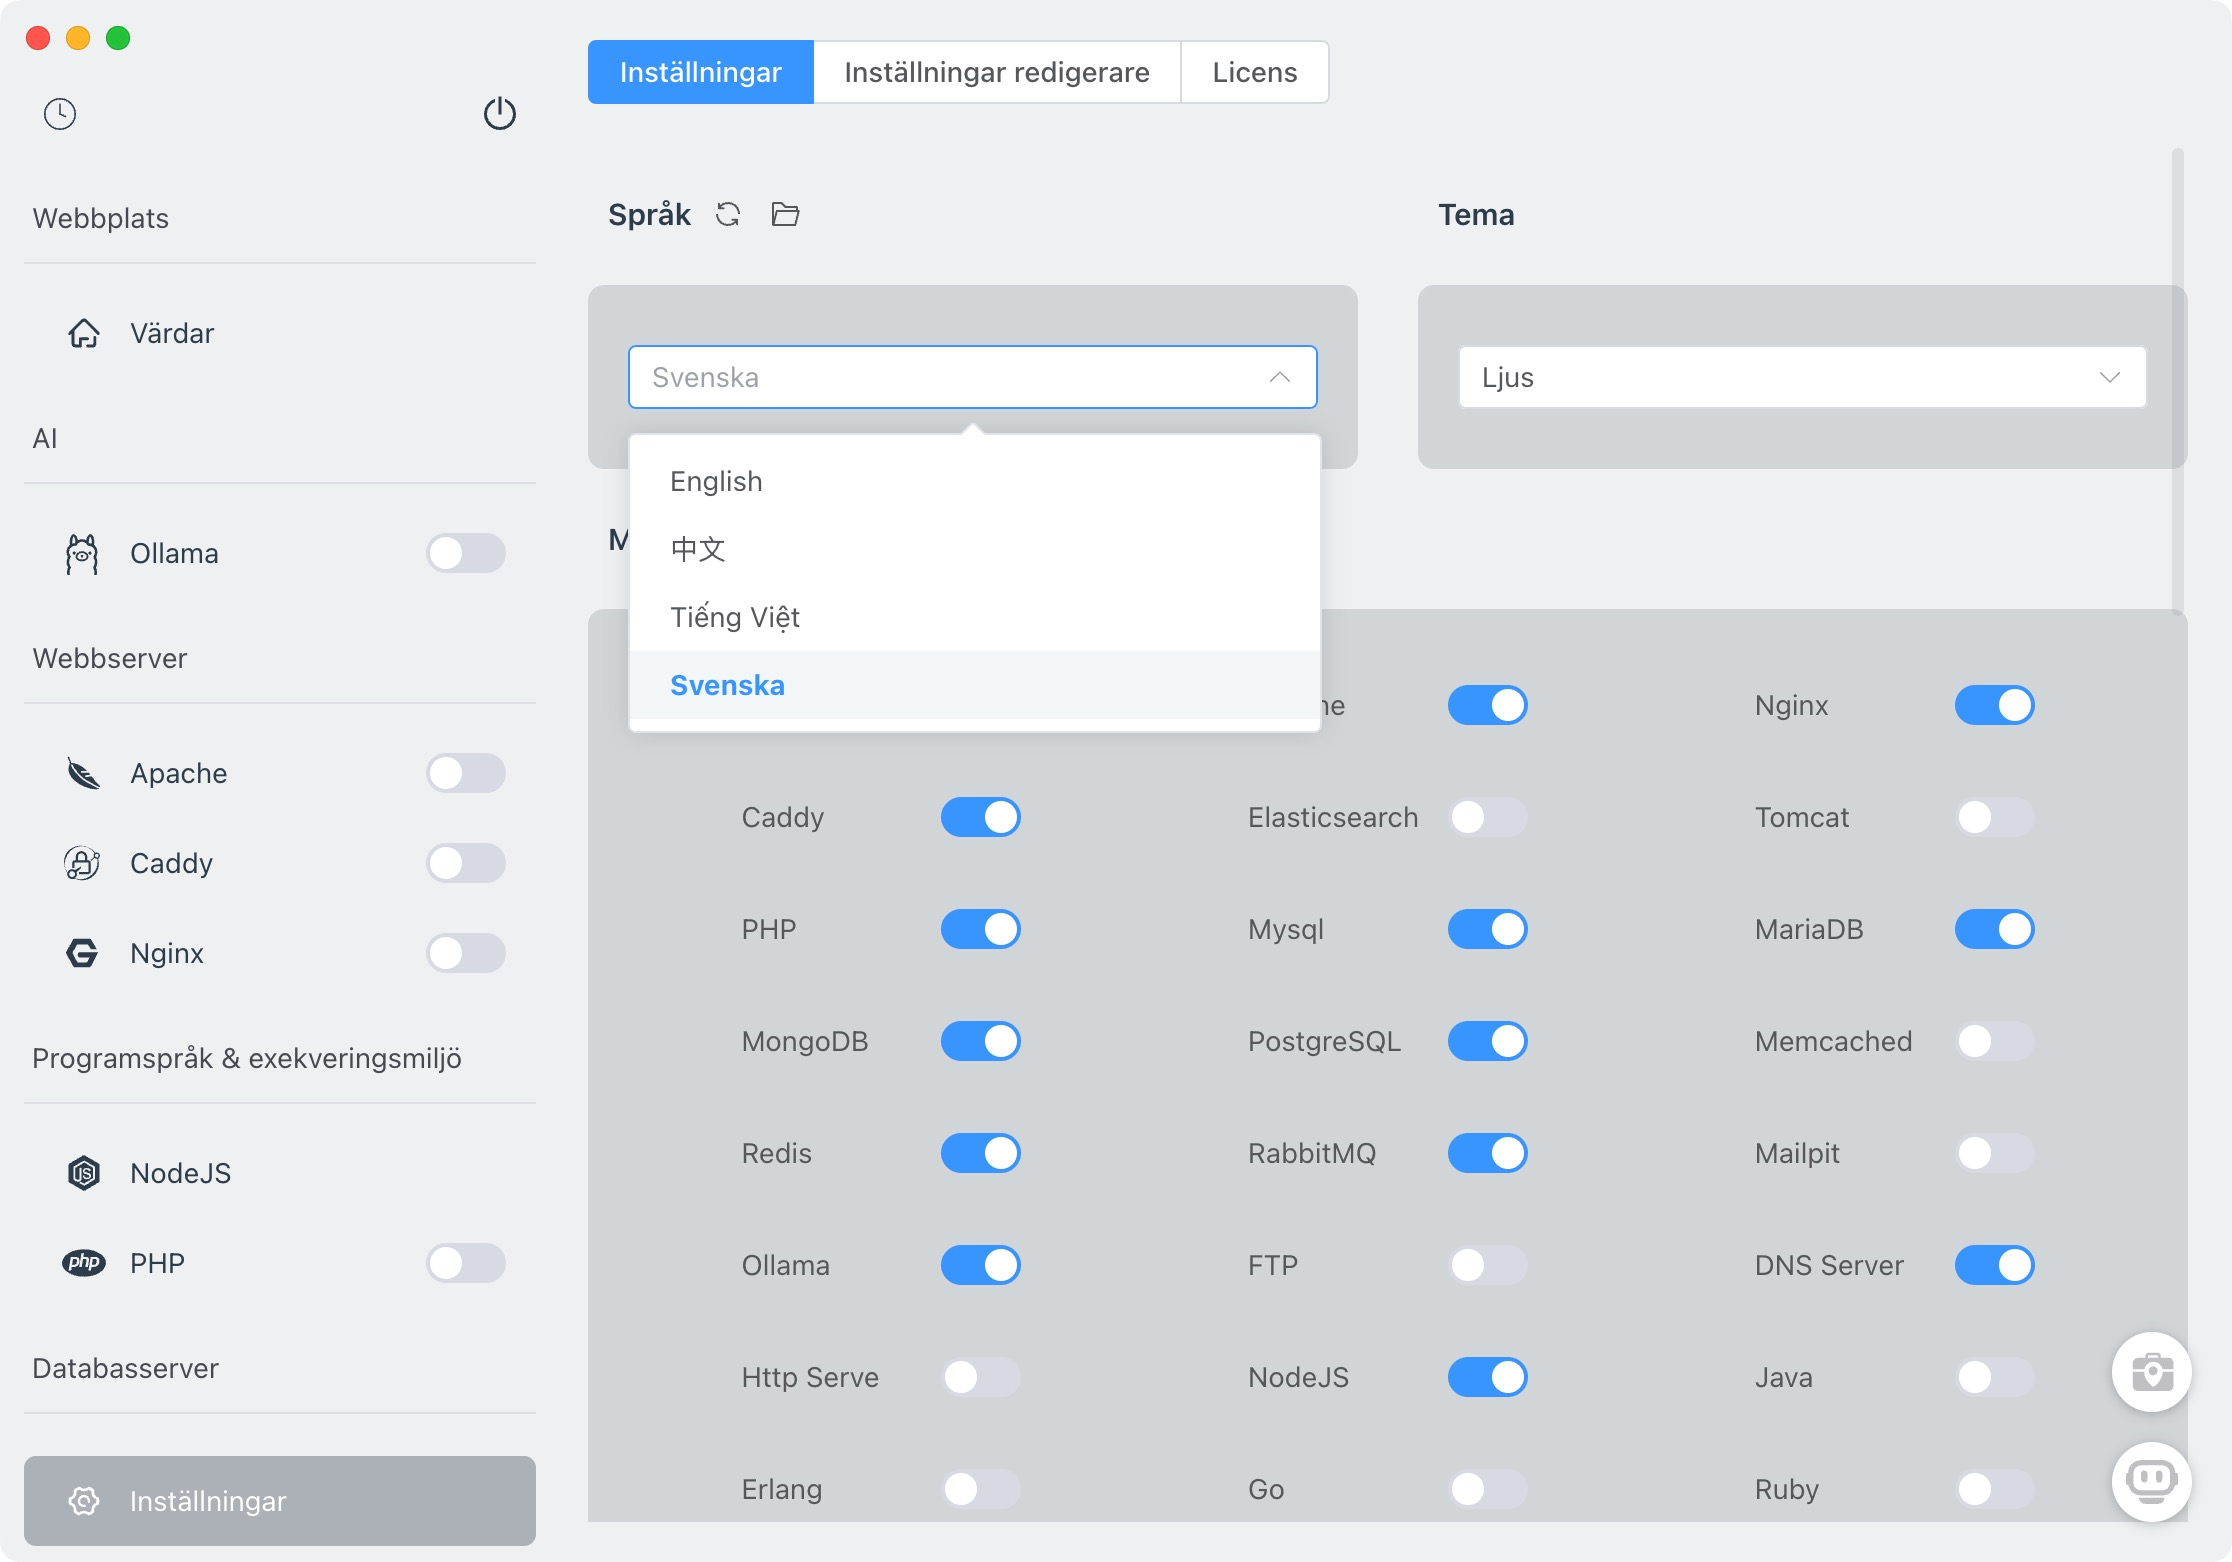
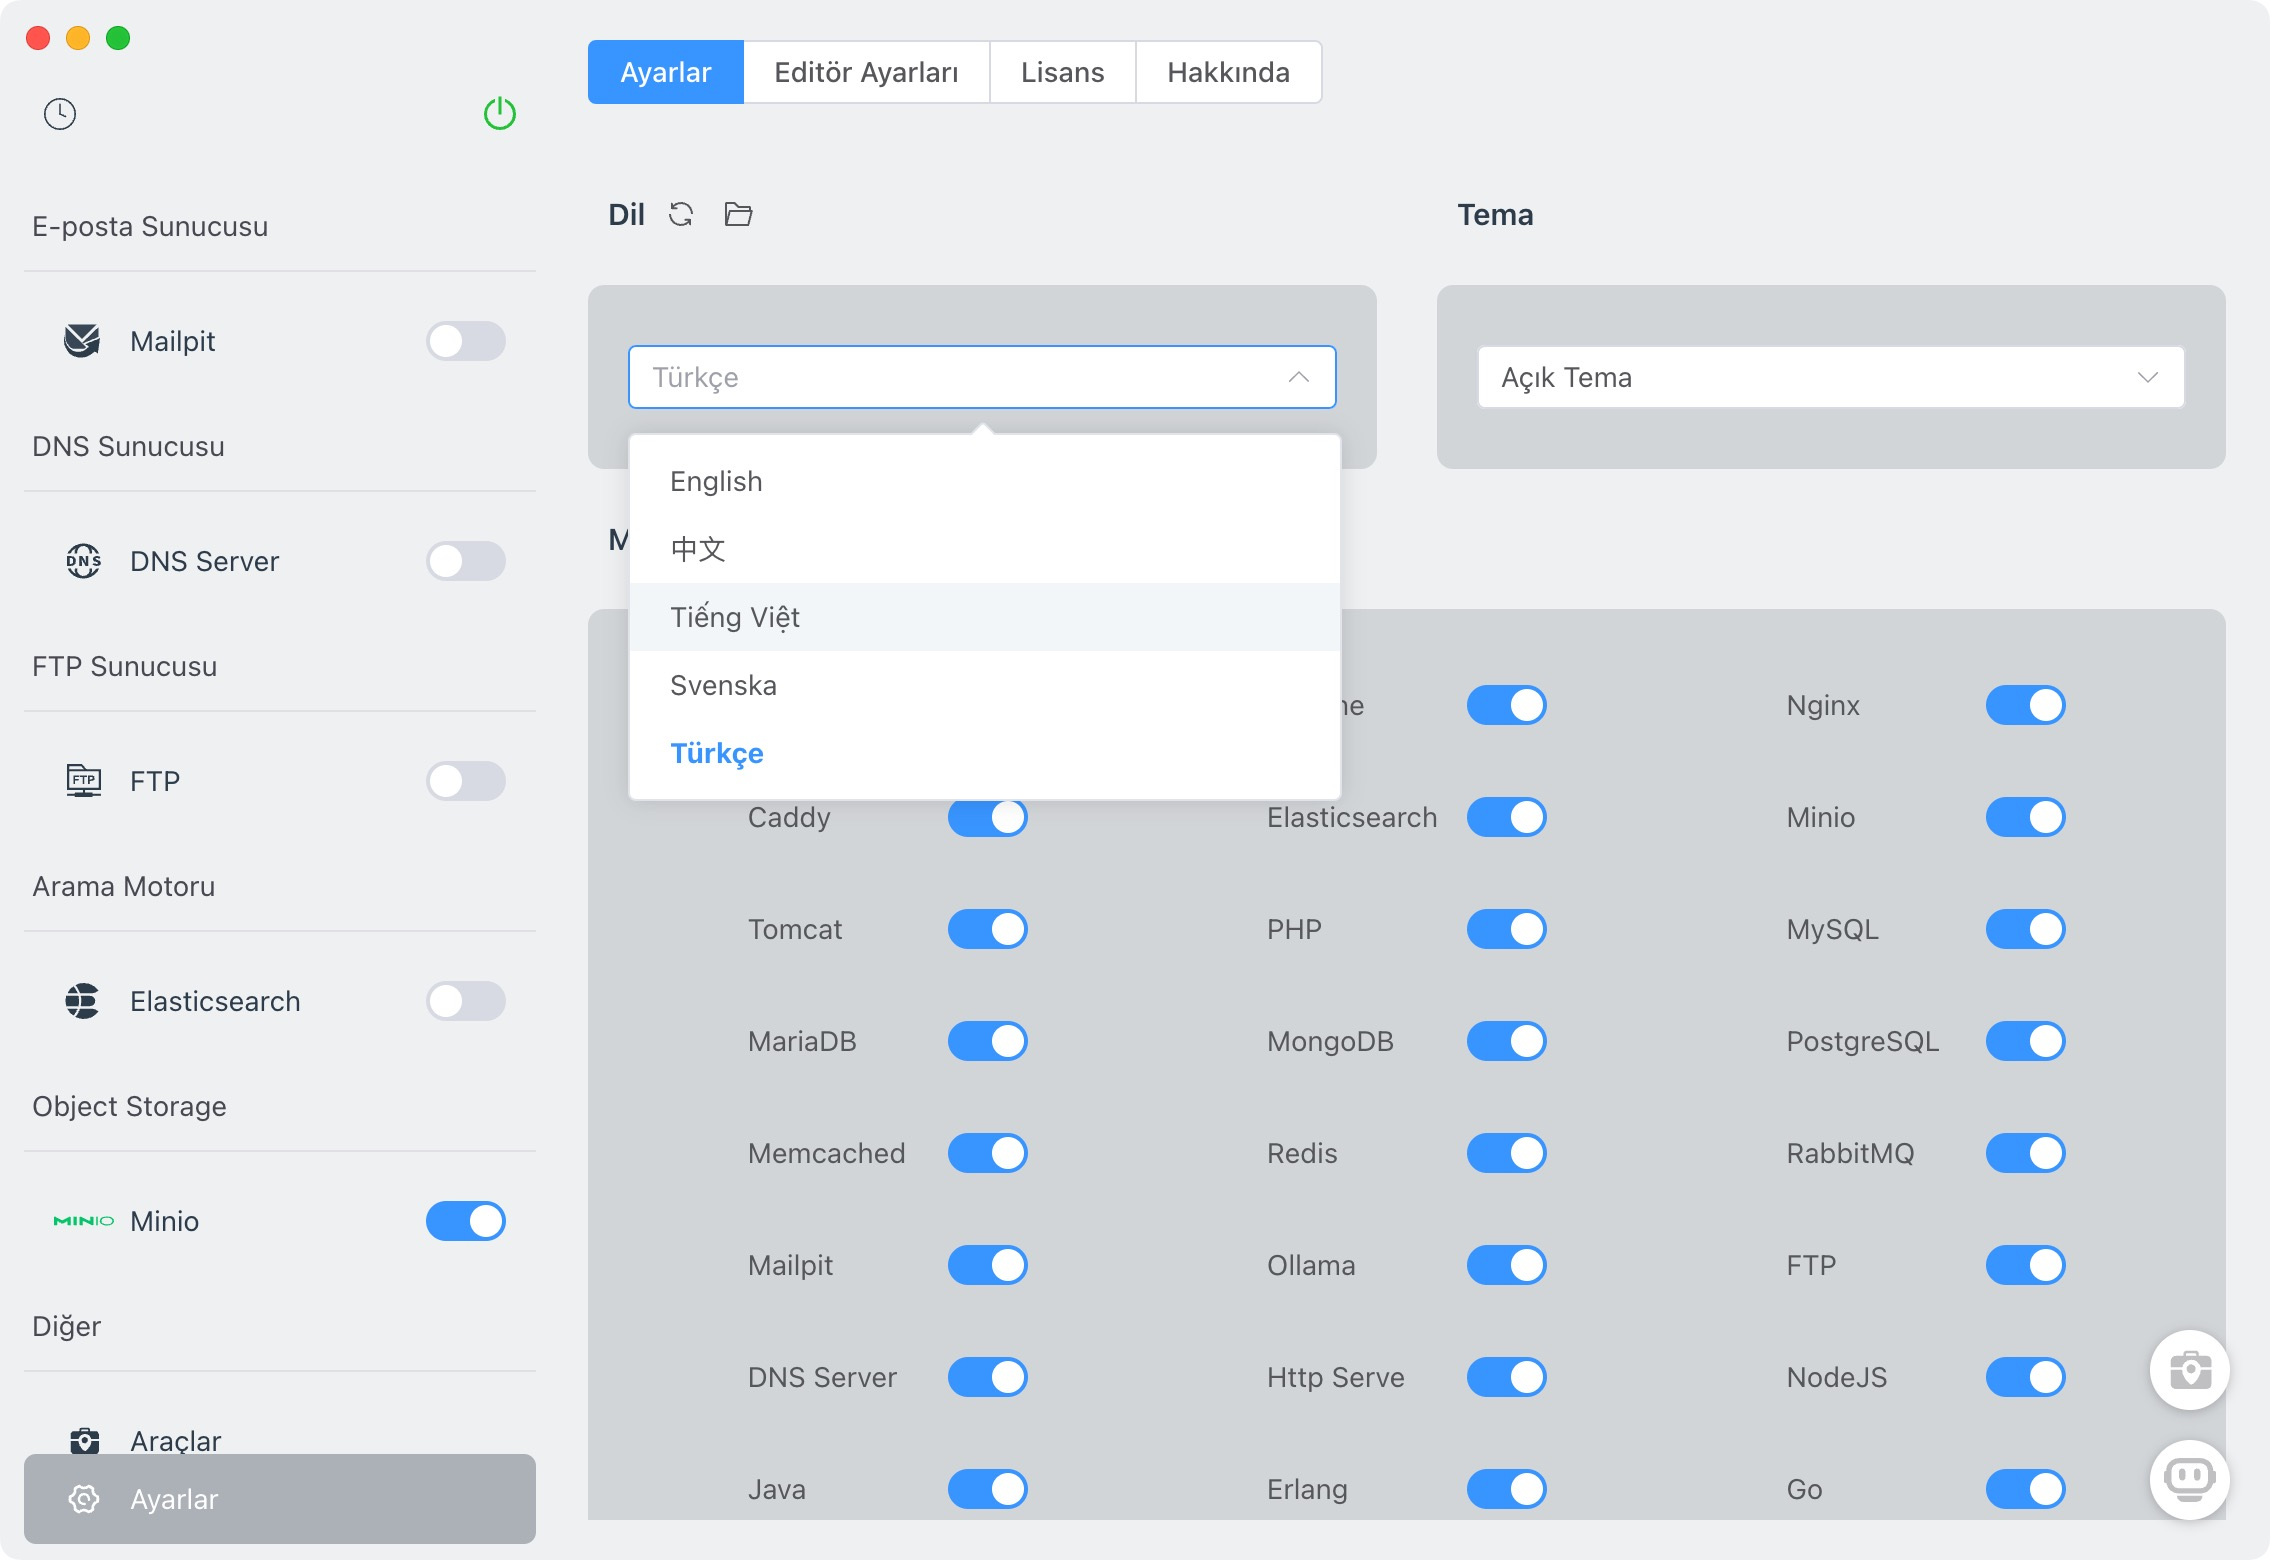
1. Optimized the startup and shutdown of all services. The service startup speed has been significantly improved. 2. Added object storage classification. Currently supports the Minio module. 3. Fixed bugs.  https://github.com/xpf0000/FlyEnv/issues/260  https://github.com/xpf0000/FlyEnv/issues/264

diff --git a/src/render/components/ServiceManager/index.vue b/src/render/components/ServiceManager/index.vue
@@ -105,6 +105,9 @@
         </template>
       </el-table-column>
       <el-table-column :label="I18nT('php.quickStart')" :prop="null" width="100px" align="center">
+        <template #header>
+          <span class="truncate">{{ I18nT('php.quickStart') }}</span>
+        </template>
         <template #default="scope">
           <template
             v-if="
@@ -129,7 +132,7 @@
       <el-table-column :label="I18nT('service.env')" :prop="null" width="100px" align="center">
         <template #header>
           <el-tooltip :content="I18nT('service.envTips')" placement="top" :show-after="600">
-            <span>{{ I18nT('service.env') }}</span>
+            <span class="truncate">{{ I18nT('service.env') }}</span>
           </el-tooltip>
         </template>
         <template #default="scope">
@@ -183,7 +186,7 @@
       >
         <template #header>
           <el-tooltip :content="I18nT('service.aliasTips')" placement="top" :show-after="600">
-            <span>{{ I18nT('service.alias') }}</span>
+            <span class="truncate">{{ I18nT('service.alias') }}</span>
           </el-tooltip>
         </template>
         <template #default="scope">

diff --git a/README.md b/README.md
@@ -38,6 +38,7 @@ FlyEnv is packed with features to make your development workflow smoother and mo
 - **Programming Languages**: PHP (Composer), Java (Maven), NodeJS, Python, Go, Erlang, Ruby.
 - **Data Queue & Cache**: Redis, Memcached, RabbitMQ.
 - **Search Engine**: Elasticsearch.
+- **Object Storage**: Minio.
 - **Utilities**: DNS Server, FTP Server, Static HTTP Server.
 
 ### Highlights
@@ -78,19 +79,19 @@ brew install flyenv
 ```
 
 #### Intel (x86)
-- [FlyEnv-4.9.7.dmg](https://github.com/xpf0000/FlyEnv/releases/download/v4.9.7/FlyEnv-4.9.7.dmg)
-- [FlyEnv-4.9.7-mac.zip](https://github.com/xpf0000/FlyEnv/releases/download/v4.9.7/FlyEnv-4.9.7-mac.zip)
+- [FlyEnv-4.9.8.dmg](https://github.com/xpf0000/FlyEnv/releases/download/v4.9.8/FlyEnv-4.9.8.dmg)
+- [FlyEnv-4.9.8-mac.zip](https://github.com/xpf0000/FlyEnv/releases/download/v4.9.8/FlyEnv-4.9.8-mac.zip)
 
 #### Apple Silicon (ARM64)
-- [FlyEnv-4.9.7-arm64.dmg](https://github.com/xpf0000/FlyEnv/releases/download/v4.9.7/FlyEnv-4.9.7-arm64.dmg)
-- [FlyEnv-4.9.7-arm64-mac.zip](https://github.com/xpf0000/FlyEnv/releases/download/v4.9.7/FlyEnv-4.9.7-arm64-mac.zip)
+- [FlyEnv-4.9.8-arm64.dmg](https://github.com/xpf0000/FlyEnv/releases/download/v4.9.8/FlyEnv-4.9.8-arm64.dmg)
+- [FlyEnv-4.9.8-arm64-mac.zip](https://github.com/xpf0000/FlyEnv/releases/download/v4.9.8/FlyEnv-4.9.8-arm64-mac.zip)
 
 > **Tip**: For a lightweight PHP and web server solution, check out [FlyPHPServer](https://flyenv.com/flyphpserver.html), available on the [Mac App Store](https://apps.apple.com/us/app/flyphpserver/id1506384441).
 
 ---
 
 ### Windows
-- [FlyEnv.Setup.4.9.6.exe](https://github.com/xpf0000/FlyEnv/releases/download/v4.9.6/FlyEnv.Setup.4.9.6.exe)
+- [FlyEnv.Setup.4.9.8.exe](https://github.com/xpf0000/FlyEnv/releases/download/v4.9.8/FlyEnv.Setup.4.9.8.exe)
 
 ---
 
